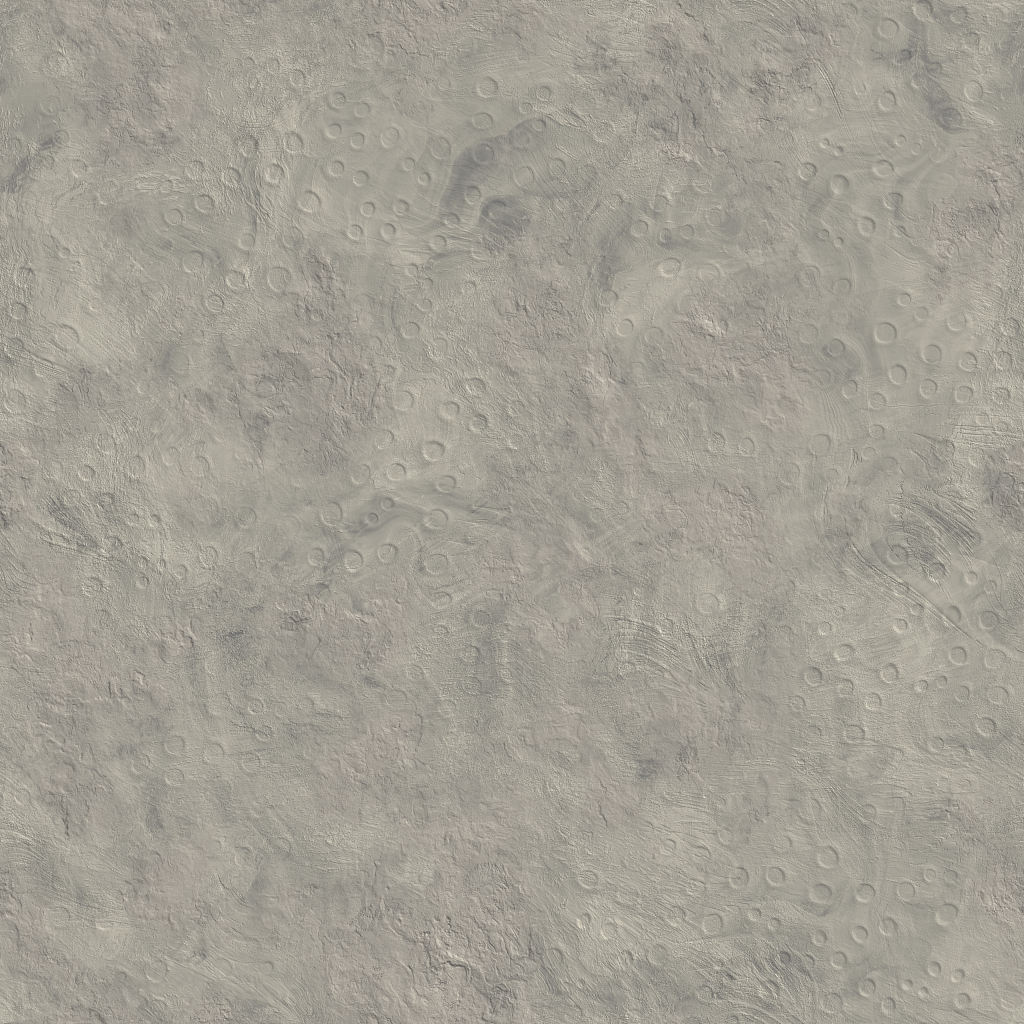
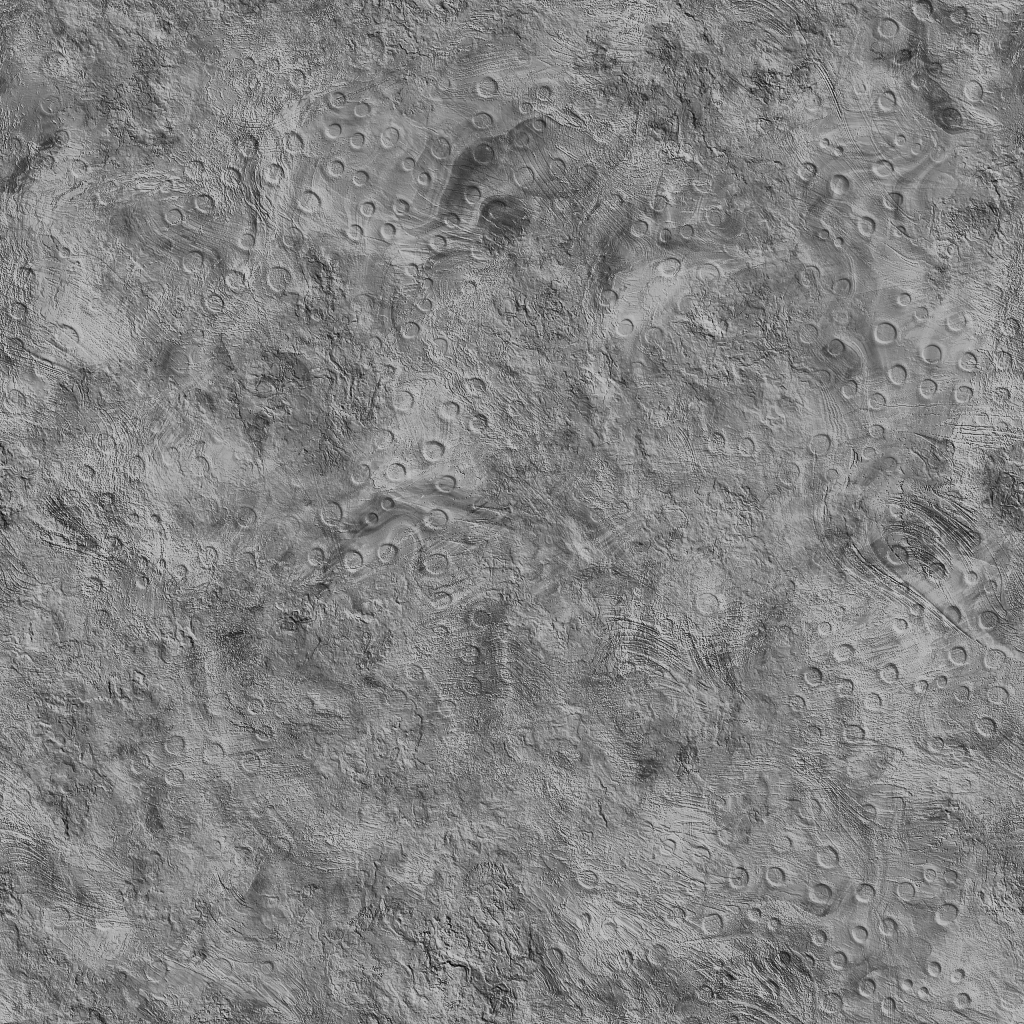
Improve moon terrain generation

diff --git a/source/marchingcubes/TerrainTypeStage.cpp b/source/marchingcubes/TerrainTypeStage.cpp
@@ -98,7 +98,7 @@ void TerrainTypeStage::changeToMossy()
 void TerrainTypeStage::changeToMoon()
 {
     baseTextureFilePath.data() = "data/marchingcubes/moon.png";
-    extraTextureFilePath.data() = "data/marchingcubes/moon_color.jpg";
+    extraTextureFilePath.data() = "data/marchingcubes/moon.png";
     fragmentShaderTextureFilePath.data() = "data/marchingcubes/moonmarchingcubes.frag";
     densityGenererationShaderFilePath.data() = "data/marchingcubes/moondensitygeneration.vert";
     rotationVector1.data() = glm::vec3(1, 0.3, 0.5);
